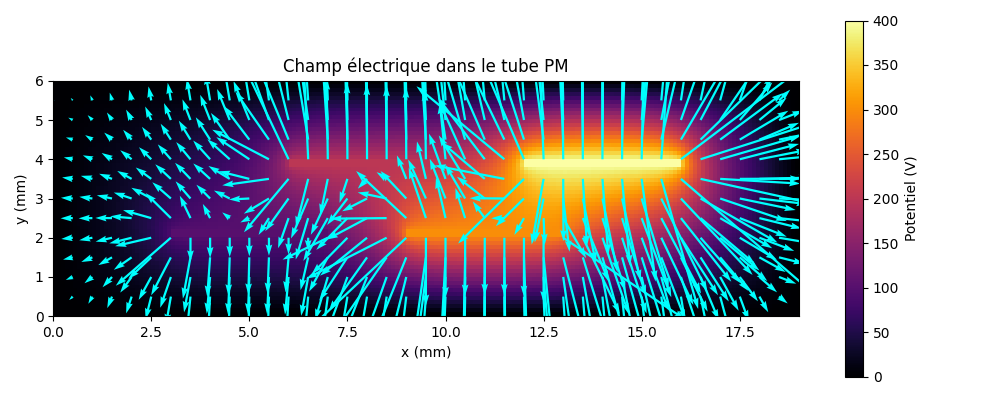
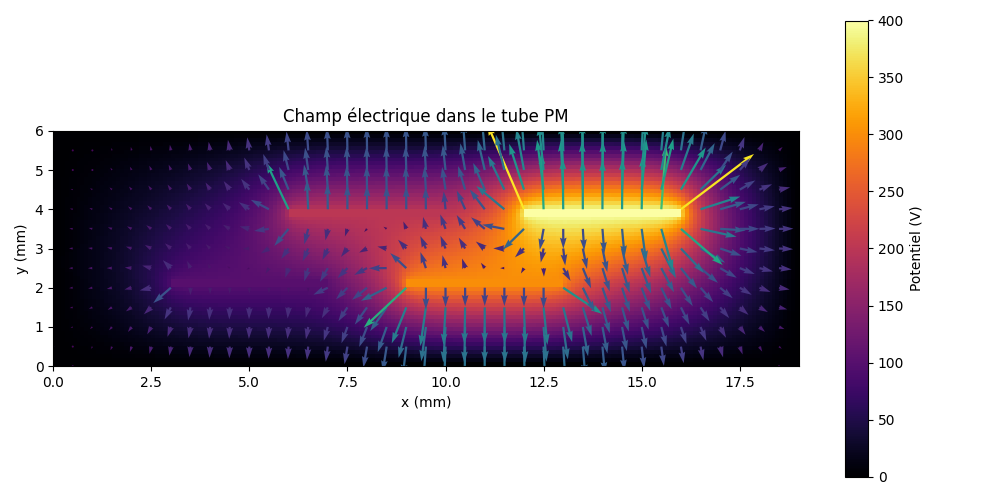
Mise à jour de la question 2 : flèches vectorielles colorées avec magnitude

diff --git a/Q2_Champ_Electrique.py b/Q2_Champ_Electrique.py
@@ -2,25 +2,22 @@ import numpy as np
 import matplotlib.pyplot as plt
 from Q1_Calcul_Potentiel import relaxation, init_conditions, scale, Nx, Ny
 
-# ===================================
-# Calcul du champ électrique
-# ===================================
+
 def calcul_champ_electrique(V):
-    Ey, Ex = np.gradient(-V)  # Gradient retourne d'abord axe y puis x
+    # Calcul du champ électrique E = -grad(V)
+    Ey, Ex = np.gradient(-V)  # Gradient retourne d'abord l'axe y puis x
     return Ex, Ey
 
-# ===================================
-# Affichage du champ + potentiel
-# ===================================
-def plot_champ_electrique(V, Ex, Ey):
-    plt.figure(figsize=(10, 4))
 
-    # Affichage du potentiel
+def plot_champ_electrique(V, Ex, Ey):
+    plt.figure(figsize=(10, 5))
+
+    # Affichage du potentiel en fond
     plt.imshow(V, cmap="inferno", origin="lower",
                extent=[0, Nx / scale, 0, Ny / scale])
     plt.colorbar(label="Potentiel (V)")
 
-    # Grille échantillonnée pour le champ (quiver)
+    # Grille moins dense pour affichage des flèches
     step = 5
     x = np.arange(0, Nx, step)
     y = np.arange(0, Ny, step)
@@ -29,9 +26,13 @@ def plot_champ_electrique(V, Ex, Ey):
     Ex_sample = Ex[::step, ::step]
     Ey_sample = Ey[::step, ::step]
 
-    # Affichage du champ
+    # Norme du champ pour la couleur des flèches
+    magnitude = np.sqrt(Ex_sample**2 + Ey_sample**2)
+
+    # Affichage du champ électrique : flèches direction + norme
     plt.quiver(X / scale, Y / scale, Ex_sample, Ey_sample,
-               color="cyan", scale=100, width=0.003)
+               magnitude, cmap="viridis", scale=None, width=0.003)
+
 
     plt.title("Champ électrique dans le tube PM")
     plt.xlabel("x (mm)")
@@ -40,9 +41,7 @@ def plot_champ_electrique(V, Ex, Ey):
     plt.savefig("figures_dos/champ_PM.png")
     plt.show()
 
-# ===================================
-# Lancement
-# ===================================
+
 def main():
     print("Calcul du potentiel pour la question 2...")
     V = np.zeros((Ny, Nx))
@@ -54,6 +53,7 @@ def main():
 
     print("Affichage du champ électrique...")
     plot_champ_electrique(V, Ex, Ey)
+
 
 if __name__ == "__main__":
     main()
